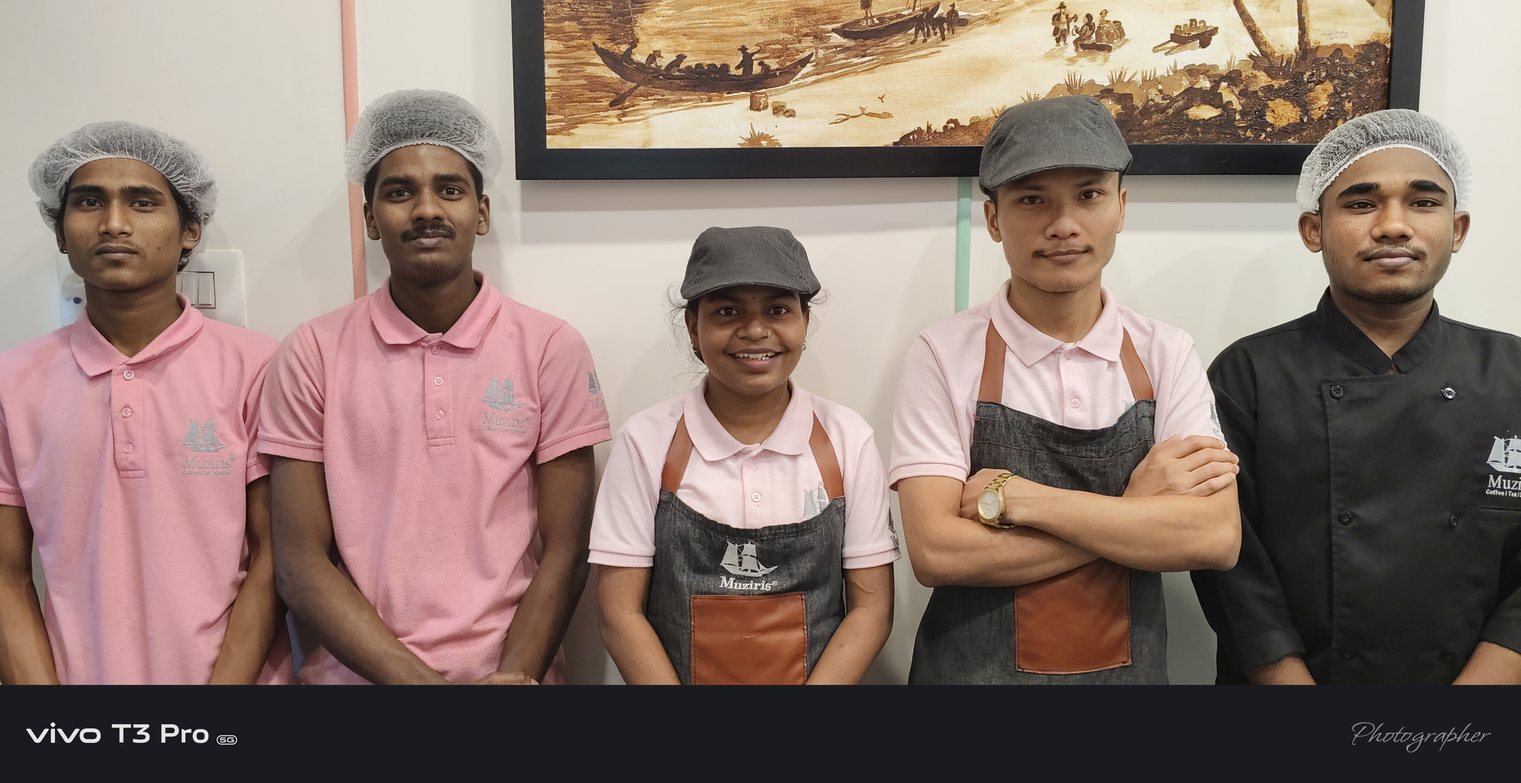
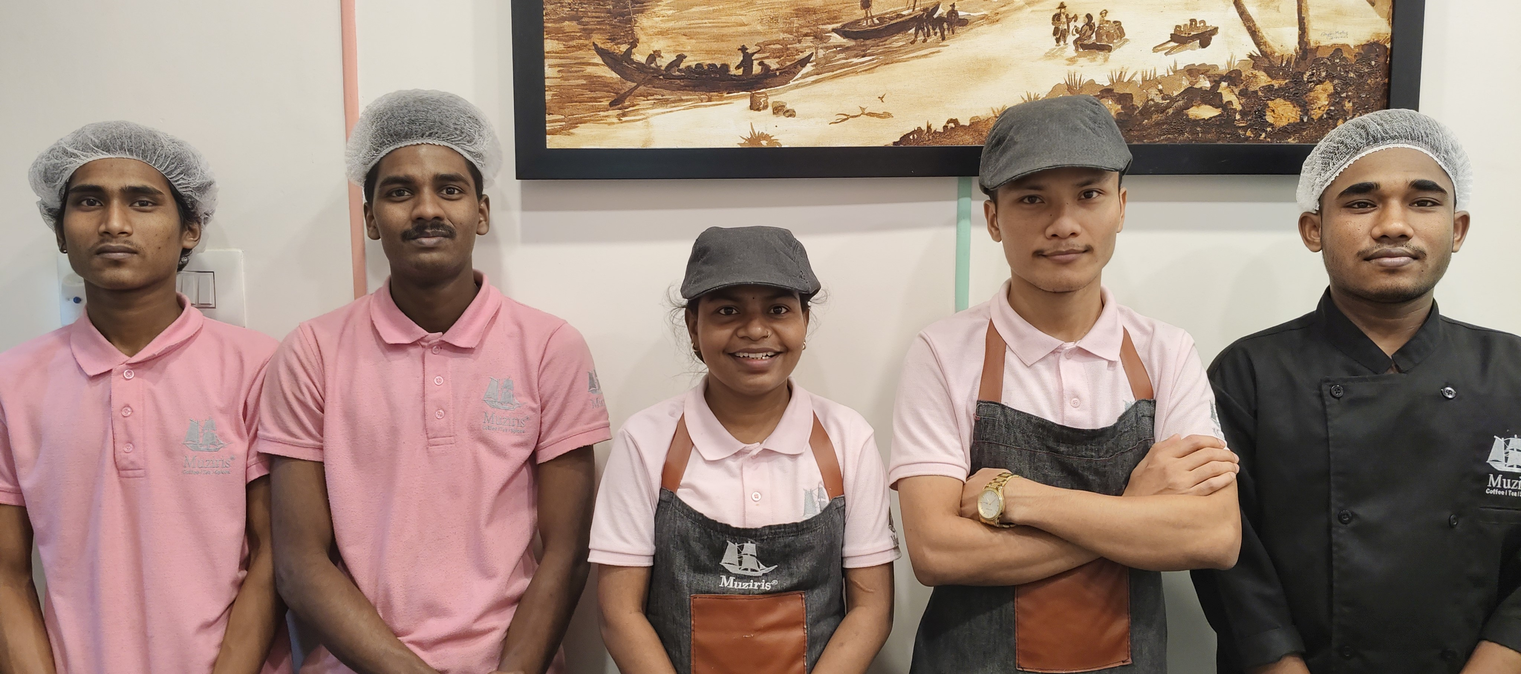
crop img and crct the spelling of pantherbrigade

diff --git a/frontnd/templates/index.html b/frontnd/templates/index.html
@@ -571,7 +571,7 @@
                     </div>
                     <div class="col-lg-6 wow fadeInRight" data-wow-delay="0.1s">
                         <h1 style="font-family: 'Times New Roman', Times, serif; margin-top: -20px;">Gazzibo villa</h1><br>
-                        <p style="color: #173841; font-size: 19px; line-height: 41px;">Gazebo Villa, covering an area of 844 square feet, is crafted to serve as a sanctuary for relaxation. It includes three elegantly designed rooms and a tunnel pool. 
+                        <p style="color: #173841; font-size: 19px; line-height: 41px;">Villa covering an area of 844 square feet, is crafted to serve as a sanctuary for relaxation. It includes three elegantly designed rooms and a tunnel pool. 
                             For business operations, it involves sourcing necessary items, equipment, and ensuring proper arrangements are in place. Additionally, it encompasses online business registration and OTA sign-up, along with the provision of monthly reports detailing profits and expenses to the directors.
                         </p>
                         <br><br>
@@ -878,7 +878,7 @@
                         <div class="text-center mx-auto mb-5 wow fadeInUp" data-wow-delay="0.1s" style="max-width: 900px;">
                             <h1 class=" mb-6" style="color: rgb(0, 0, 0); margin-bottom: 100px; margin-top: -20px; font-family: 'Times New Roman', Times, serif;">Villa matti</h1>
                             <hr style="color: rgb(0, 0, 0); margin-bottom: 50px;">
-                            <p class="mb-0" style=" font-size: 24px; font-family: Cambria, Cochin, Georgia, Times, 'Times New Roman', serif;  letter-spacing: .1px; color: rgb(0, 0, 0);" >Villa maati is a boutique nature stay. The retreat consists of an entertainment zone with kitchen, dining & living. A residential zone with five bedrooms - are dispersed between chikoo and mango trees - creating courts & pathways surrounding a pool. The expansive front patio facing the pool of this villa allows guests to take in the views and enjoy the outdoors year-round.</p>
+                            <p class="mb-0" style=" font-size: 24px; font-family: Cambria, Cochin, Georgia, Times, 'Times New Roman', serif;  letter-spacing: .1px; color: rgb(0, 0, 0);" >It is a boutique nature stay. The retreat consists of an entertainment zone with kitchen, dining & living. A residential zone with five bedrooms - are dispersed between chikoo and mango trees - creating courts & pathways surrounding a pool. The expansive front patio facing the pool of this villa allows guests to take in the views and enjoy the outdoors year-round.</p>
                             <hr style="color: rgb(0, 0, 0); margin-bottom: 30px; margin-top: 50px;">
                         </div>
                         <div class="imgg">

diff --git a/frontnd/templates/about.html b/frontnd/templates/about.html
@@ -121,6 +121,7 @@
         </div>
         <!-- Header End -->
 
+
             
         <!-- Blog Start -->
         
@@ -136,7 +137,8 @@
                     <p class="mb-0" style="font-size: 21px; margin-top: 50px; color: #000000; ">Found by <span style="color: #10577c; font-family: sans-serif;">Mr. Ramesh Sukumaran</span> in 2023. Panther Management Bregade and <span><a href="https://sunshinehospitality.in/">Sunshine Hospitality</a></span> is a group of likeminded professionals with a shared passion for hospitality, food, and health that fuels emotionals positivity as well as physical wellbeing</p>
                 </div>
             
-        
+                
+
                 <div class="row g-5 pt-5">
                     <div class="col-lg-6 wow fadeInLeft" data-wow-delay="0.1s"  >
                         <h3 class="display-4 text-dark mb-4 wow fadeInUp" data-wow-delay="0.3s" style="color: black;" >Who we are?</h3>
@@ -148,8 +150,6 @@
                     </div>
                 </div><br><br>
             </div>
-
-            
 
             <div class="container py-5">
 

diff --git a/frontnd/templates/contact.html b/frontnd/templates/contact.html
@@ -180,7 +180,7 @@
                     
                 </div>
             </div>
-            <div class="d-flex align-items-center">
+            <div class="d-flex align-items-center"> 
                
                 <div class="d-flex" style="margin-left: 289px;">
                     <!-- <a class="btn-square btn  rounded-circle mx-1" href="https://www.facebook.com/"><i class="fab fa-facebook-f" style="width: 28px; color: white;"></i></a> -->
